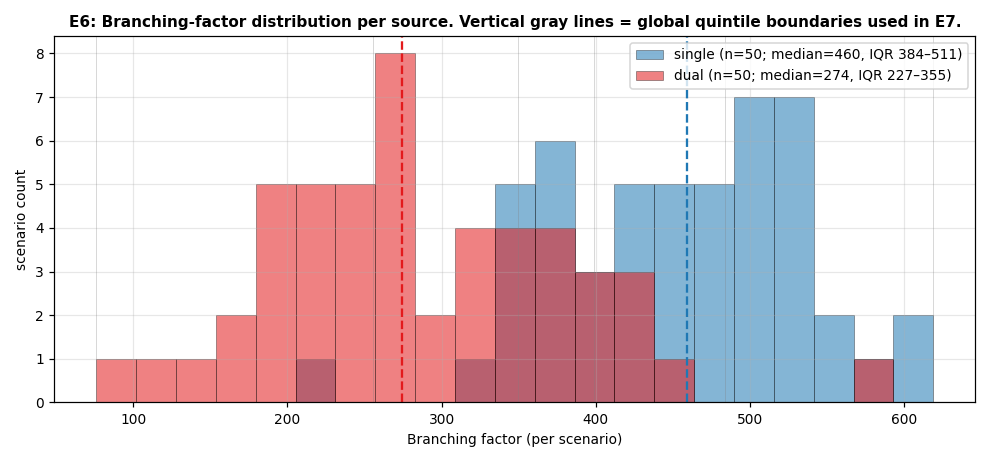
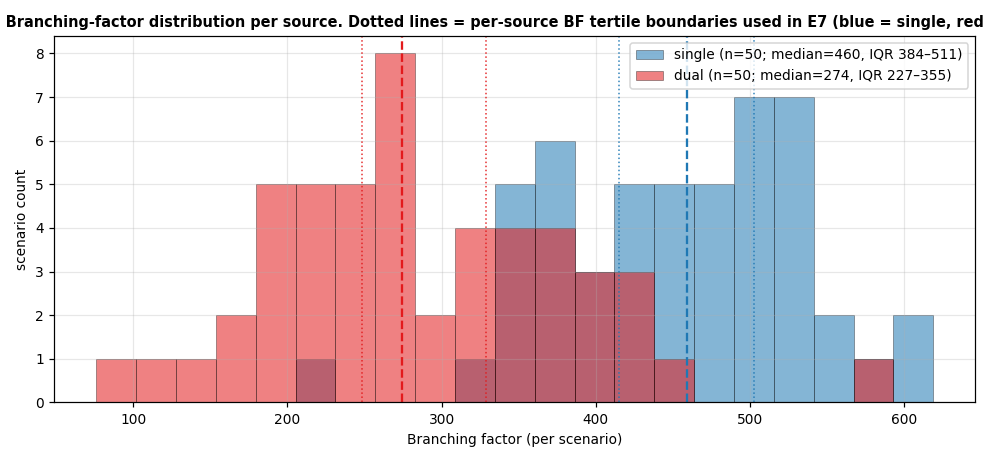
v4 E7: re-bin BF by per-source tertiles so every cell is reliable
The global-BF-quintile heatmap was mathematically correct (its
row-weighted cells reconcile exactly to E3) but visually misleading: the
dual portfolio is almost all low-BF and single almost all high-BF, so the
dual-high-BF and single-low-BF cells rested on just 1-5 scenarios (dual
Q4=5, Q5=1) yet were the most saturated, eye-catching cells. They
produced spurious +30..+42 values that wrongly suggested crossover
bridge-burning wins in high-BF duals - contradicting E1/E3.

Fix: bin BF into tertiles WITHIN each source (~17 scenarios/cell). Every
cell is now reliable. Trade-off: columns no longer share an absolute BF
scale, so each column is labelled with its source's own BF range and
scenario count, and the figure is read within-panel. The strict
same-absolute-BF control still lives in E8/ANCOVA (continuous BF).

Result: E7 now agrees with E3 - BB negative in every single cell and
neutral-to-+2 in dual; Combo trails its Expansion@r counterpart
throughout. E6 gridlines updated to per-source tertile boundaries.
RESULTS_V4.md E7 section rewritten. Old E7_bf_quintile_* files removed.

Changed region(s): [[0.0, 0.0303, 1.0, 0.0606]]

diff --git a/Tribes-master/analysis/analyze_v4_full.py b/Tribes-master/analysis/analyze_v4_full.py
@@ -525,12 +525,26 @@ def extra_branching_source_diagnostics(turn_df, portfolio):
     j['delta'] = j.FinalSequenceValue - j.emcts_final
     j = j[j.Config != 'EMCTS'].copy()
 
-    # Common BF quintiles computed across all 100 portfolio scenarios so single/dual share bins.
+    # BF tertiles computed WITHIN each source. Global quintiles put dual almost entirely in low-BF
+    # bins (19/17/8/5/1 scenarios) and single in high-BF bins (1/3/12/15/19), so the off-diagonal
+    # cells rested on 1–5 scenarios and were visually dominant but statistically meaningless.
+    # Per-source tertiles give ~17 scenarios per cell — every cell is reliable. Trade-off: columns
+    # no longer align on absolute BF across the two panels, so each column is labelled with its own
+    # source's BF range and scenario count.
     portfolio = portfolio.copy()
-    portfolio['BF_quintile'] = pd.qcut(portfolio.BranchingFactor, 5,
-                                       labels=[f'Q{i+1}' for i in range(5)])
-    bin_edges = pd.qcut(portfolio.BranchingFactor, 5, retbins=True)[1]
-    j = j.merge(portfolio[['ScenarioId','BF_quintile']], on='ScenarioId')
+    TIER_LABELS = ['Low BF', 'Mid BF', 'High BF']
+    tier_edges = {}     # source -> bin-edge array (len 4)
+    tier_counts = {}    # source -> scenario count per tier
+    portfolio['BF_tier'] = pd.Series(index=portfolio.index, dtype=object)
+    for src in ('single', 'dual'):
+        mask = portfolio.Source == src
+        cats, edges = pd.qcut(portfolio.loc[mask, 'BranchingFactor'], 3,
+                              labels=TIER_LABELS, retbins=True)
+        portfolio.loc[mask, 'BF_tier'] = cats.astype(str)
+        tier_edges[src] = edges
+        tier_counts[src] = cats.value_counts().reindex(TIER_LABELS)
+    portfolio['BF_tier'] = pd.Categorical(portfolio['BF_tier'], categories=TIER_LABELS, ordered=True)
+    j = j.merge(portfolio[['ScenarioId','BF_tier']], on='ScenarioId')
 
     # ----------------------------------------------------- E6: BF distribution per source ----
     fig, ax = plt.subplots(figsize=(9, 4.2))
@@ -545,13 +559,18 @@ def extra_branching_source_diagnostics(turn_df, portfolio):
             edgecolor='black', linewidth=0.4)
     ax.axvline(s_bf.median(), color='#1f78b4', linestyle='--', lw=1.5)
     ax.axvline(d_bf.median(), color='#e31a1c', linestyle='--', lw=1.5)
-    for e in bin_edges:
-        ax.axvline(e, color='gray', lw=0.4, alpha=0.5)
+    # Per-source tertile boundaries (the 2 internal cuts each) in each source's colour — these are
+    # the columns used in E7. Shows how differently the two sources are sliced.
+    for e in tier_edges['single'][1:-1]:
+        ax.axvline(e, color='#1f78b4', lw=1.0, ls=':', alpha=0.9)
+    for e in tier_edges['dual'][1:-1]:
+        ax.axvline(e, color='#e31a1c', lw=1.0, ls=':', alpha=0.9)
     ax.set_xlabel('Branching factor (per scenario)')
     ax.set_ylabel('scenario count')
     ax.legend(fontsize=9, loc='upper right')
-    ax.set_title('E6: Branching-factor distribution per source. Vertical gray lines = global quintile boundaries used in E7.',
-                 fontweight='bold', fontsize=10)
+    ax.set_title('E6: Branching-factor distribution per source. Dotted lines = per-source BF tertile '
+                 'boundaries used in E7 (blue = single, red = dual).',
+                 fontweight='bold', fontsize=9.5)
     fig.tight_layout(); fig.savefig(FIGS / 'E6_bf_dist_per_source.png'); plt.close(fig)
     # Mann-Whitney for "are the two distributions different?"
     try:
@@ -575,35 +594,39 @@ def extra_branching_source_diagnostics(turn_df, portfolio):
     }).round(2)
     diag.to_csv(TABLES / 'E6_bf_dist_per_source.csv', index=False)
 
-    # ----------------------------------------------------- E7: BF-quintile × source heatmap ----
+    # ----------------------------------------------------- E7: BF-tertile × source heatmap ----
     configs = [c for c in ORDER if c != 'EMCTS' and c in j.Config.unique()]
-    pivot_single = (j[j.Source == 'single'].groupby(['Config','BF_quintile'], observed=True)['delta']
-                    .mean().unstack('BF_quintile').reindex(configs))
-    pivot_dual = (j[j.Source == 'dual'].groupby(['Config','BF_quintile'], observed=True)['delta']
-                  .mean().unstack('BF_quintile').reindex(configs))
+    pivot_single = (j[j.Source == 'single'].groupby(['Config','BF_tier'], observed=True)['delta']
+                    .mean().unstack('BF_tier').reindex(index=configs, columns=TIER_LABELS))
+    pivot_dual = (j[j.Source == 'dual'].groupby(['Config','BF_tier'], observed=True)['delta']
+                  .mean().unstack('BF_tier').reindex(index=configs, columns=TIER_LABELS))
     vmax = max(abs(np.nanmax(pivot_single.values)), abs(np.nanmin(pivot_single.values)),
                abs(np.nanmax(pivot_dual.values)), abs(np.nanmin(pivot_dual.values)))
-    fig, axes = plt.subplots(1, 2, figsize=(13, 6), squeeze=False)
+    fig, axes = plt.subplots(1, 2, figsize=(12, 6), squeeze=False)
     axes = axes[0]
-    for ax, pivot, label in zip(axes, [pivot_single, pivot_dual], ['single-player', 'dual-player']):
+    for ax, pivot, src, label in zip(axes, [pivot_single, pivot_dual],
+                                     ['single', 'dual'], ['single-player', 'dual-player']):
         im = ax.imshow(pivot.values, cmap='RdBu_r', vmin=-vmax, vmax=vmax, aspect='auto')
         # ^ RdBu_r: red = positive (beats EMCTS), blue = negative (loses to EMCTS)
-        ax.set_xticks(range(5)); ax.set_xticklabels(
-            [f'Q{i+1}\n{bin_edges[i]:.0f}–{bin_edges[i+1]:.0f}' for i in range(5)], fontsize=7)
+        edges, cnts = tier_edges[src], tier_counts[src]
+        ax.set_xticks(range(len(TIER_LABELS))); ax.set_xticklabels(
+            [f'{TIER_LABELS[i]}\n{edges[i]:.0f}–{edges[i+1]:.0f}\n(n={int(cnts.iloc[i])})'
+             for i in range(len(TIER_LABELS))], fontsize=8)
         ax.set_yticks(range(len(configs))); ax.set_yticklabels(configs, fontsize=8)
-        ax.set_xlabel('Branching-factor quintile (Q1=lowest BF, Q5=highest)')
+        ax.set_xlabel(f"{label}'s own BF range (~{int(cnts.iloc[0])} scenarios/cell)")
         ax.set_title(f'{label} scenarios')
         for (i, k), v in np.ndenumerate(pivot.values):
             if np.isfinite(v):
-                ax.text(k, i, f'{v:+.0f}', ha='center', va='center', fontsize=7,
+                ax.text(k, i, f'{v:+.0f}', ha='center', va='center', fontsize=8,
                         color='white' if abs(v) > vmax * 0.55 else 'black')
         fig.colorbar(im, ax=ax, shrink=0.85).set_label('paired Δ vs EMCTS')
-    fig.suptitle('E7: BF-quintile × source heatmap — paired Δ vs EMCTS (averaged over ms and visits). '
-                 'Compare cells at the SAME column to see the source effect at the SAME BF.',
-                 fontweight='bold', fontsize=10)
-    fig.tight_layout(); fig.savefig(FIGS / 'E7_bf_quintile_source_heatmap.png'); plt.close(fig)
-    pivot_single.round(2).to_csv(TABLES / 'E7_bf_quintile_single.csv')
-    pivot_dual.round(2).to_csv(TABLES / 'E7_bf_quintile_dual.csv')
+    fig.suptitle('E7: BF-tertile × source heatmap — paired Δ vs EMCTS (averaged over ms and visits). '
+                 'Bins are per-source (~17 scenarios/cell), so columns reflect each source\'s OWN BF '
+                 'range (labelled), not a shared scale.',
+                 fontweight='bold', fontsize=9.5)
+    fig.tight_layout(); fig.savefig(FIGS / 'E7_bf_tier_source_heatmap.png'); plt.close(fig)
+    pivot_single.round(2).to_csv(TABLES / 'E7_bf_tier_single.csv')
+    pivot_dual.round(2).to_csv(TABLES / 'E7_bf_tier_dual.csv')
 
     # ----------------------------------------------------- E8: BF scatter with regression lines ----
     select_agents = ['CrossoverExpansion@2', 'CrossoverExpansion@15', 'CrossoverBB', 'CrossoverCombo@5']

diff --git a/Tribes-master/analysis/RESULTS_V4.md b/Tribes-master/analysis/RESULTS_V4.md
@@ -190,30 +190,41 @@ the effect.
 | dual (n=50) | **274** | 227–355 |
 
 Single-player scenarios have **~1.7× the median branching factor of dual** — they are biased
-toward late-game, high-development snapshots with many cities and units. The two BF distributions
-overlap only modestly between Q3 (350–399) and Q4 (399–484). This is a real confound: any agent
-whose performance depends on BF will *appear* to differ between single and dual even if its
-behavior is identical at the same BF.
+toward late-game, high-development snapshots with many cities and units. The two distributions
+overlap only in the 330–510 band. This is a real confound: any agent whose performance depends on
+BF will *appear* to differ between single and dual even if its behavior is identical at the same BF.
 
-**E7: BF-quintile × source heatmap (`E7_bf_quintile_source_heatmap.png`).**
+**E7: BF-tertile × source heatmap (`E7_bf_tier_source_heatmap.png`).**
 
-Reading the heatmap *column-by-column* (same BF, different source) shows the source effect after
-controlling for BF:
+*Binning note.* Bins are computed **within each source** (tertiles, ~17 scenarios per cell). The
+dual portfolio is almost entirely low-BF and single almost entirely high-BF, so a *global*-quintile
+binning left the dual-high-BF and single-low-BF cells resting on just 1–5 scenarios — which produced
+large, eye-catching, but statistically meaningless values (an earlier draft of this figure showed
+spurious +30…+42 cells there that wrongly suggested crossover bridge-burning *won* in high-BF duals).
+The per-source re-binning removes that artifact. The cost: columns no longer share an absolute BF
+scale — single's "Low BF" tertile (222–415) actually overlaps dual's "High BF" tertile (329–583). So
+read this figure **within each panel** (how an agent's advantage moves as BF rises *within its own
+source*); for the strict "same absolute BF, different source" control, use E8/ANCOVA, which handle BF
+continuously.
 
-- **At low BF (Q1, BF 76–256):** single and dual cells are mostly positive for both panels — Exp@10
-  is +20 (single) vs +24 (dual); Combo@10 is +14 (single) vs −1 (dual). Source barely matters at
-  low BF.
-- **At mid BF (Q3, BF 350–399):** the panels start to diverge — Exp@5 is +1 (single) vs +20
-  (dual), a ~20-unit gap at the same BF.
-- **At high BF (Q4, BF 399–484):** the divergence is dramatic — Exp@5 is −1 (single) vs **+49**
-  (dual); BB is −11 (single) vs **+33** (dual); Combo@2 is +2 (single) vs **+42** (dual).
-- **At highest BF (Q5, BF 484–619):** every crossover agent is negative in single (−6 to −28) but
-  positive in dual (+5 to +21). Five out of six dual Q5 cells are GREEN; five out of six single Q5
-  cells are BLUE.
+Two clean, reliable readings:
 
-So **the source effect is small at low BF and large at high BF.** That is exactly what the user's
-intuition predicted: crossover does poorly in high-BF singles, but does well in (lower-BF) duals.
-The heatmap also shows the same is true at the *same* BF — so this is not purely a BF artifact.
+- **Within single (economic) scenarios, crossover deteriorates as BF rises.** Every column goes more
+  negative Low→High: Exp@5 = −0 → −3 → **−24**; BB = −16 → −10 → **−30**; Combo@10 = −11 → −8 →
+  **−30**. The single High-BF column is almost solid blue.
+- **Within dual (combat) scenarios, Expansion stays strongly positive across the whole BF range:**
+  Exp@5 = +25 → +15 → +26; Exp@2 = +19 → +10 → +8; Exp@10 = +26 → +5 → +3. The dual panel is mostly
+  red for the Expansion family.
+
+Crucially, the re-binned figure now **agrees with E3 on the bridge-burners**: CrossoverBB is negative
+in every single cell and only neutral-to-+2 in dual; CrossoverCombo trails its Expansion@r
+counterpart in nearly every cell. The earlier "crossover-BB wins in high-BF duals" impression was
+entirely the 1- and 5-scenario global-quintile cells, and it disappears once every cell holds ~17
+scenarios.
+
+So the corrected statement is: **the source axis dominates — Expansion helps in dual and hurts in
+high-BF single — and within each source the crossover benefit falls as BF rises.** BB and Combo stay
+net-negative everywhere they are reliably measured, consistent with E1/E3.
 
 **E8: per-source regression scatter (`E8_bf_source_regression.png`).**
 
